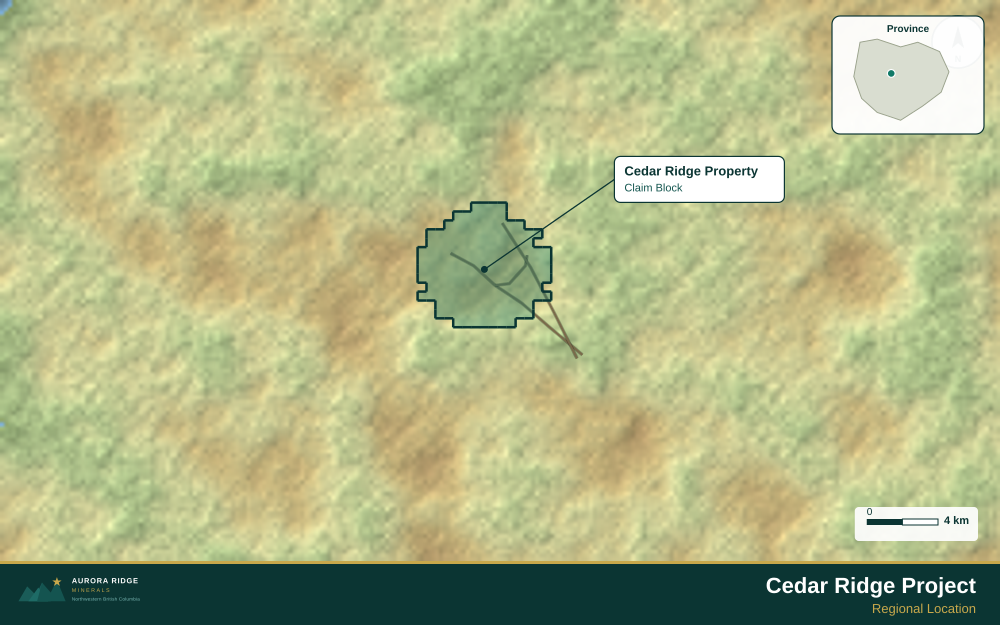
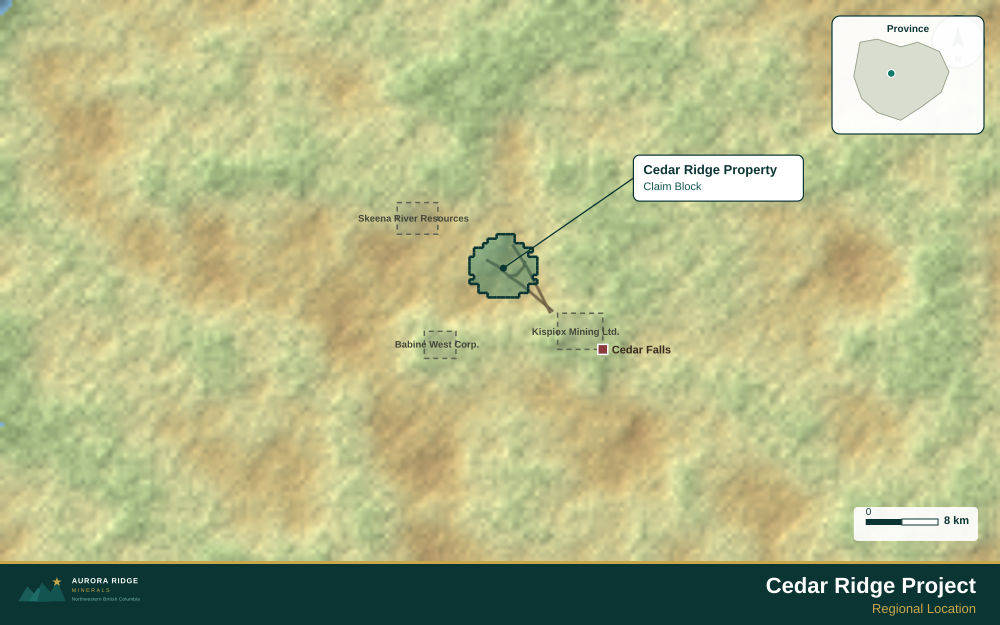
Add neighbouring claims and a nearby town to the Regional Context thumbnail
Regional was correctly zoomed out but still showed Cedar Ridge as the only
thing in the district. Added a couple of nearby third-party claim blocks
and a settlement marker (Cedar Falls) so it actually reads as regional
context rather than an empty wilderness around one property. Basemap stays
on "terrain", which is one of the app's real basemap options.

Changed region(s): [[0.341, 0.304, 0.682, 0.5776], [0.589, 0.2432, 0.806, 0.3344], [0.558, 0.3344, 0.589, 0.3648]]

diff --git a/src/assets/auroraDemo.js b/src/assets/auroraDemo.js
@@ -125,6 +125,37 @@ export const auroraRoads = {
   ],
 };
 
+// ── Neighbouring claim blocks: other companies' tenures near Cedar Ridge,
+// for regional context (so the property doesn't look like it's alone in
+// the district). Simple rectangles, not staked-cell grids like the main
+// claim block.
+function rectFeature(cxKm, cyKm, wKm, hKm, props) {
+  const x0 = cxKm - wKm / 2, x1 = cxKm + wKm / 2;
+  const y0 = cyKm - hKm / 2, y1 = cyKm + hKm / 2;
+  return {
+    type: 'Feature',
+    properties: props,
+    geometry: { type: 'Polygon', coordinates: [[toLngLat(x0, y0), toLngLat(x1, y0), toLngLat(x1, y1), toLngLat(x0, y1), toLngLat(x0, y0)]] },
+  };
+}
+
+export const auroraNeighborClaims = {
+  type: 'FeatureCollection',
+  features: [
+    rectFeature(-9.5, 5.5, 4.5, 3.5, { TenureID: 'NX-2201', Owner: 'Skeena River Resources' }),
+    rectFeature(8.5, -7, 5, 4, { TenureID: 'KP-0877', Owner: 'Kispiox Mining Ltd.' }),
+    rectFeature(-7, -8.5, 3.5, 3, { TenureID: 'BW-1542', Owner: 'Babine West Corp.' }),
+  ],
+};
+
+// ── Nearby settlement, for regional/district maps
+export const auroraSettlements = {
+  type: 'FeatureCollection',
+  features: [
+    { type: 'Feature', properties: { Name: 'Cedar Falls', Type: 'town' }, geometry: { type: 'Point', coordinates: toLngLat(11, -9) } },
+  ],
+};
+
 // ── Intercept callouts anchored to the headline collar in each target
 const calloutAnchor = (xKm, yKm) => {
   const [lng, lat] = toLngLat(xKm, yKm);